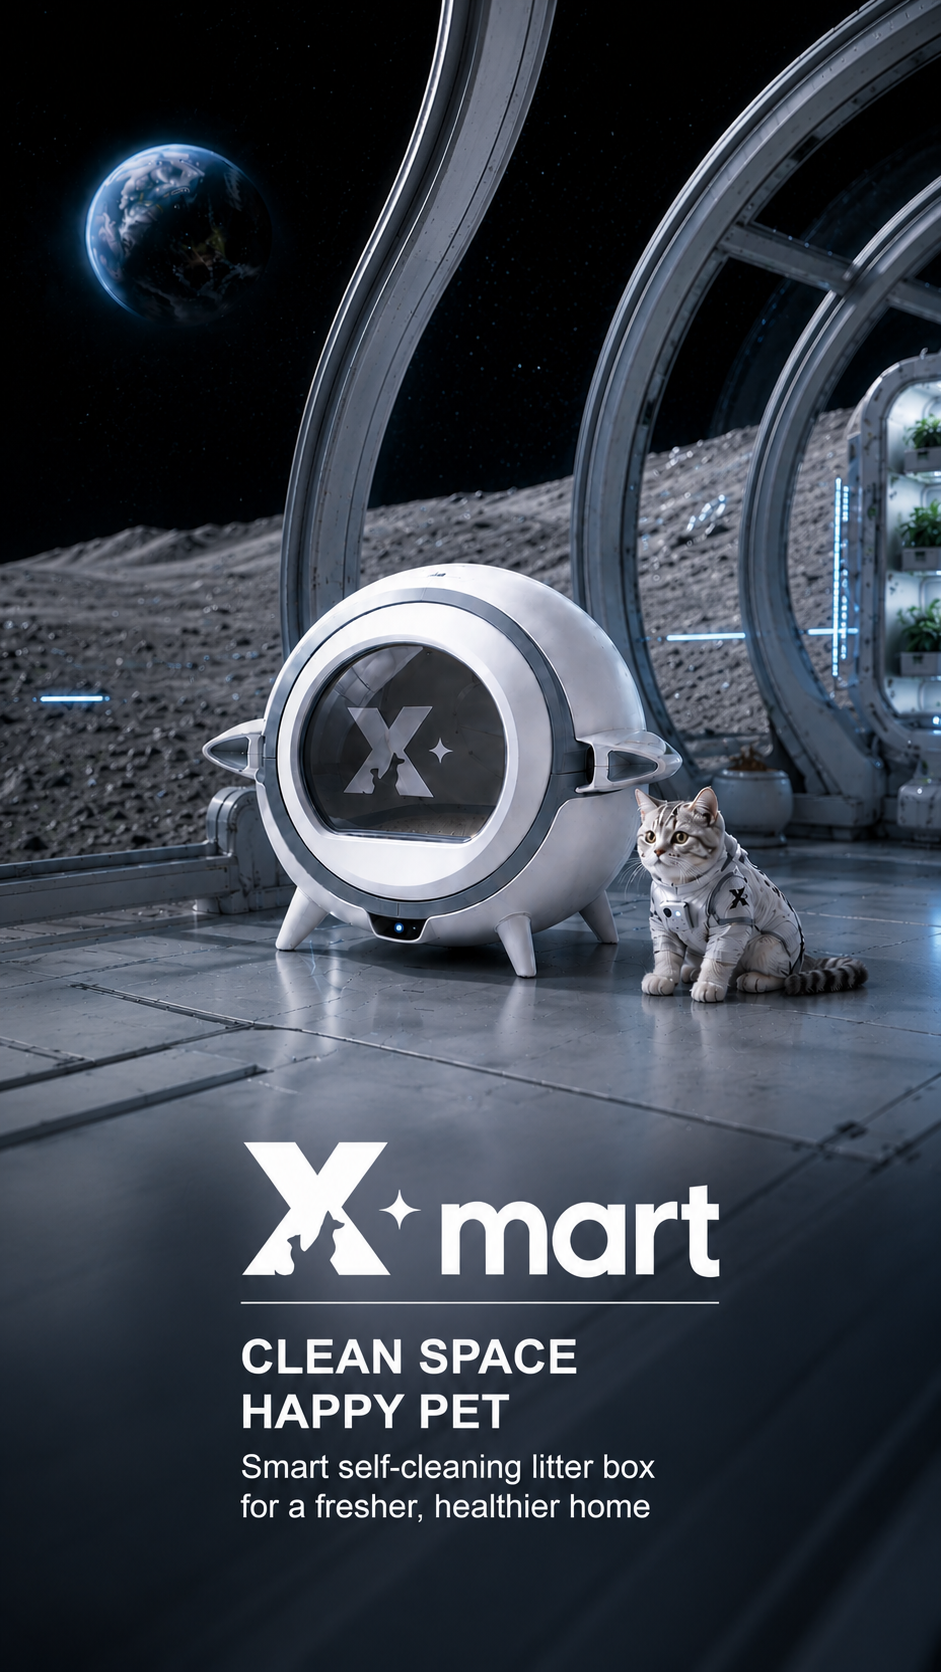
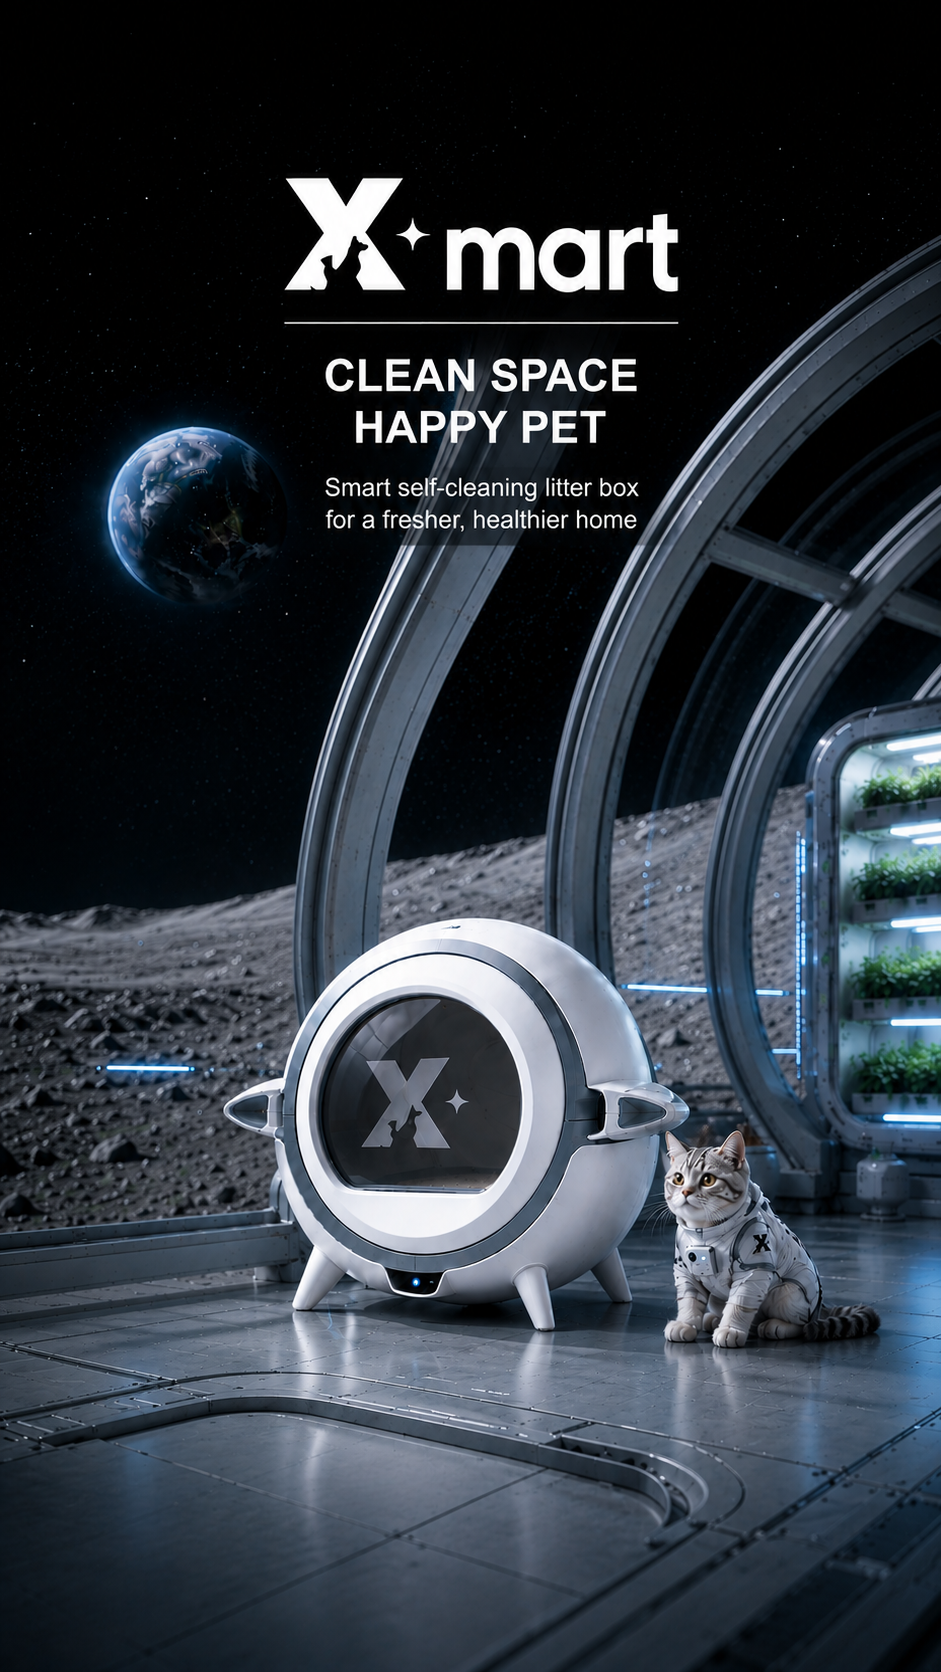
Refine mobile hero placement

diff --git a/styles.css b/styles.css
@@ -97,36 +97,35 @@ h1 {
   .launch-page {
     min-height: 100svh;
     min-height: 100dvh;
+    place-items: end center;
     background-image: url("20260806-105716.png");
     background-position: center top;
   }
 
   .backdrop {
     background:
-      linear-gradient(180deg, rgba(2, 7, 12, 0.72) 0%, rgba(2, 7, 12, 0.34) 24%, rgba(2, 7, 12, 0.02) 48%),
-      linear-gradient(0deg, rgba(0, 0, 0, 0.12) 0%, rgba(0, 0, 0, 0.02) 54%, rgba(0, 0, 0, 0.18) 100%);
+      linear-gradient(180deg, rgba(0, 0, 0, 0.08) 0%, rgba(0, 0, 0, 0.02) 52%, rgba(0, 0, 0, 0.72) 100%),
+      linear-gradient(0deg, rgba(1, 7, 12, 0.56) 0%, rgba(1, 7, 12, 0.02) 46%, rgba(1, 7, 12, 0.08) 100%);
   }
 
   .hero {
     width: min(100% - 28px, 520px);
-    margin: 22px auto 0;
+    margin: 0 auto clamp(24px, 7vh, 58px);
   }
 
   .eyebrow {
-    margin-bottom: 12px;
-    padding: 7px 11px;
-    font-size: 0.66rem;
+    display: none;
   }
 
   h1 {
-    font-size: clamp(2.75rem, 13vw, 4.8rem);
+    font-size: clamp(2.7rem, 13vw, 4.65rem);
     line-height: 0.92;
   }
 
   .lede {
-    max-width: 31ch;
-    margin-top: 14px;
-    font-size: clamp(0.9rem, 3.5vw, 1.08rem);
+    max-width: 29ch;
+    margin-top: 12px;
+    font-size: clamp(0.88rem, 3.4vw, 1.02rem);
     line-height: 1.45;
   }
 }
@@ -138,7 +137,7 @@ h1 {
 
   .hero {
     width: calc(100% - 24px);
-    margin-top: 18px;
+    margin-bottom: 26px;
   }
 
   .eyebrow {
@@ -167,15 +166,11 @@ h1 {
 
 @media (max-height: 640px) and (max-width: 760px) {
   .hero {
-    margin-top: 14px;
-  }
-
-  .eyebrow {
-    margin-bottom: 8px;
+    margin-bottom: 16px;
   }
 
   h1 {
-    font-size: clamp(2.25rem, 11vw, 3.4rem);
+    font-size: clamp(2.2rem, 10vw, 3.2rem);
   }
 
   .lede {
